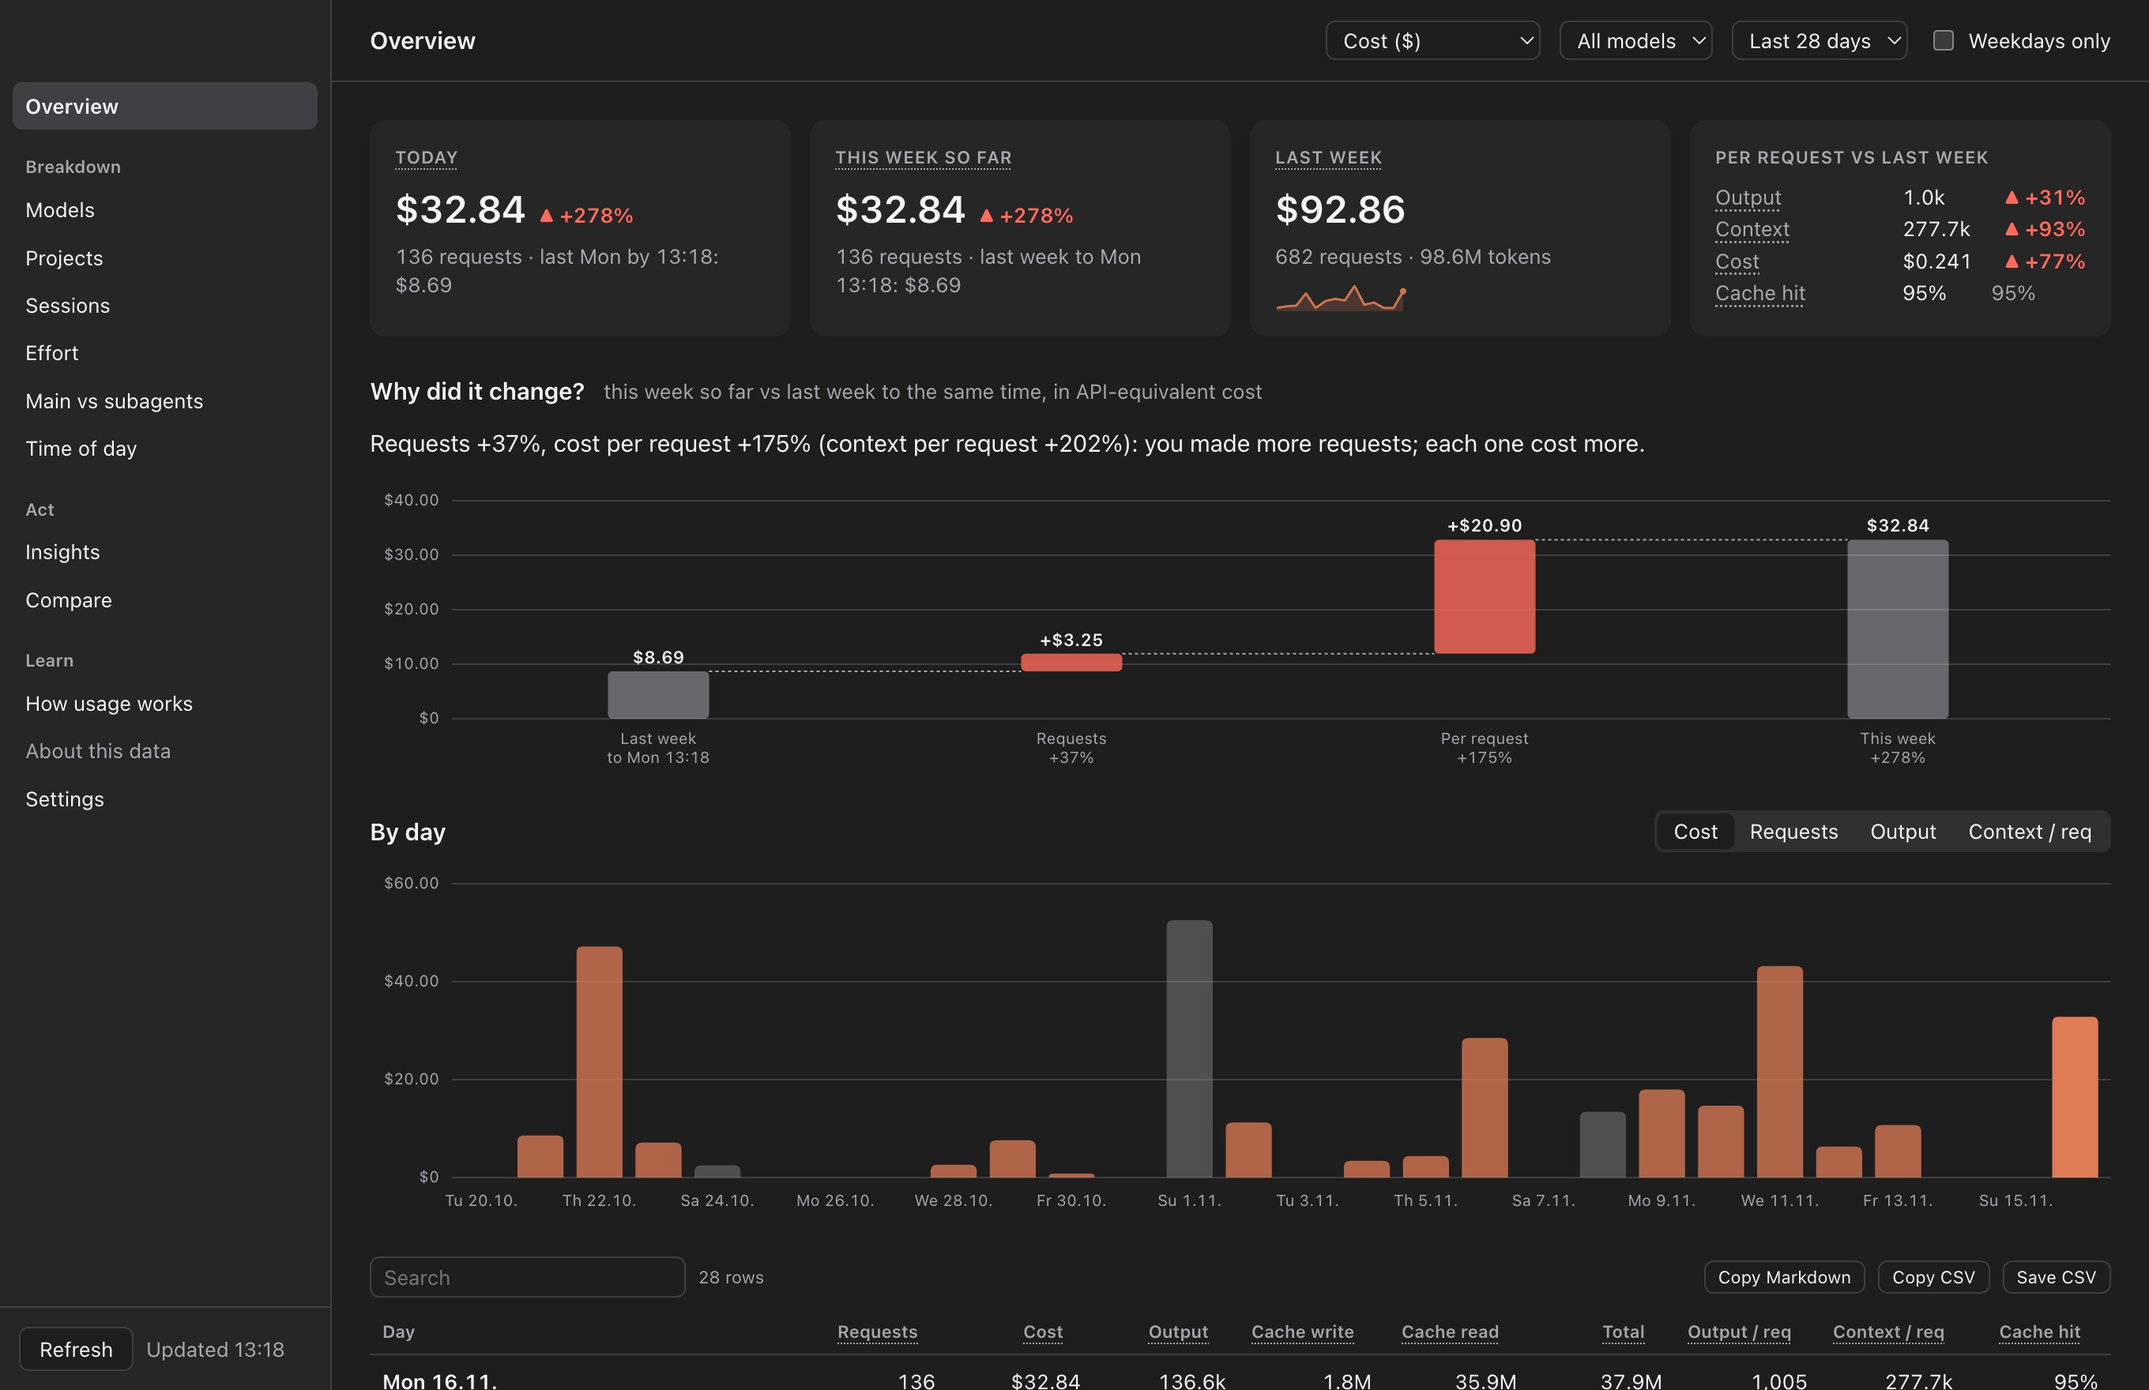
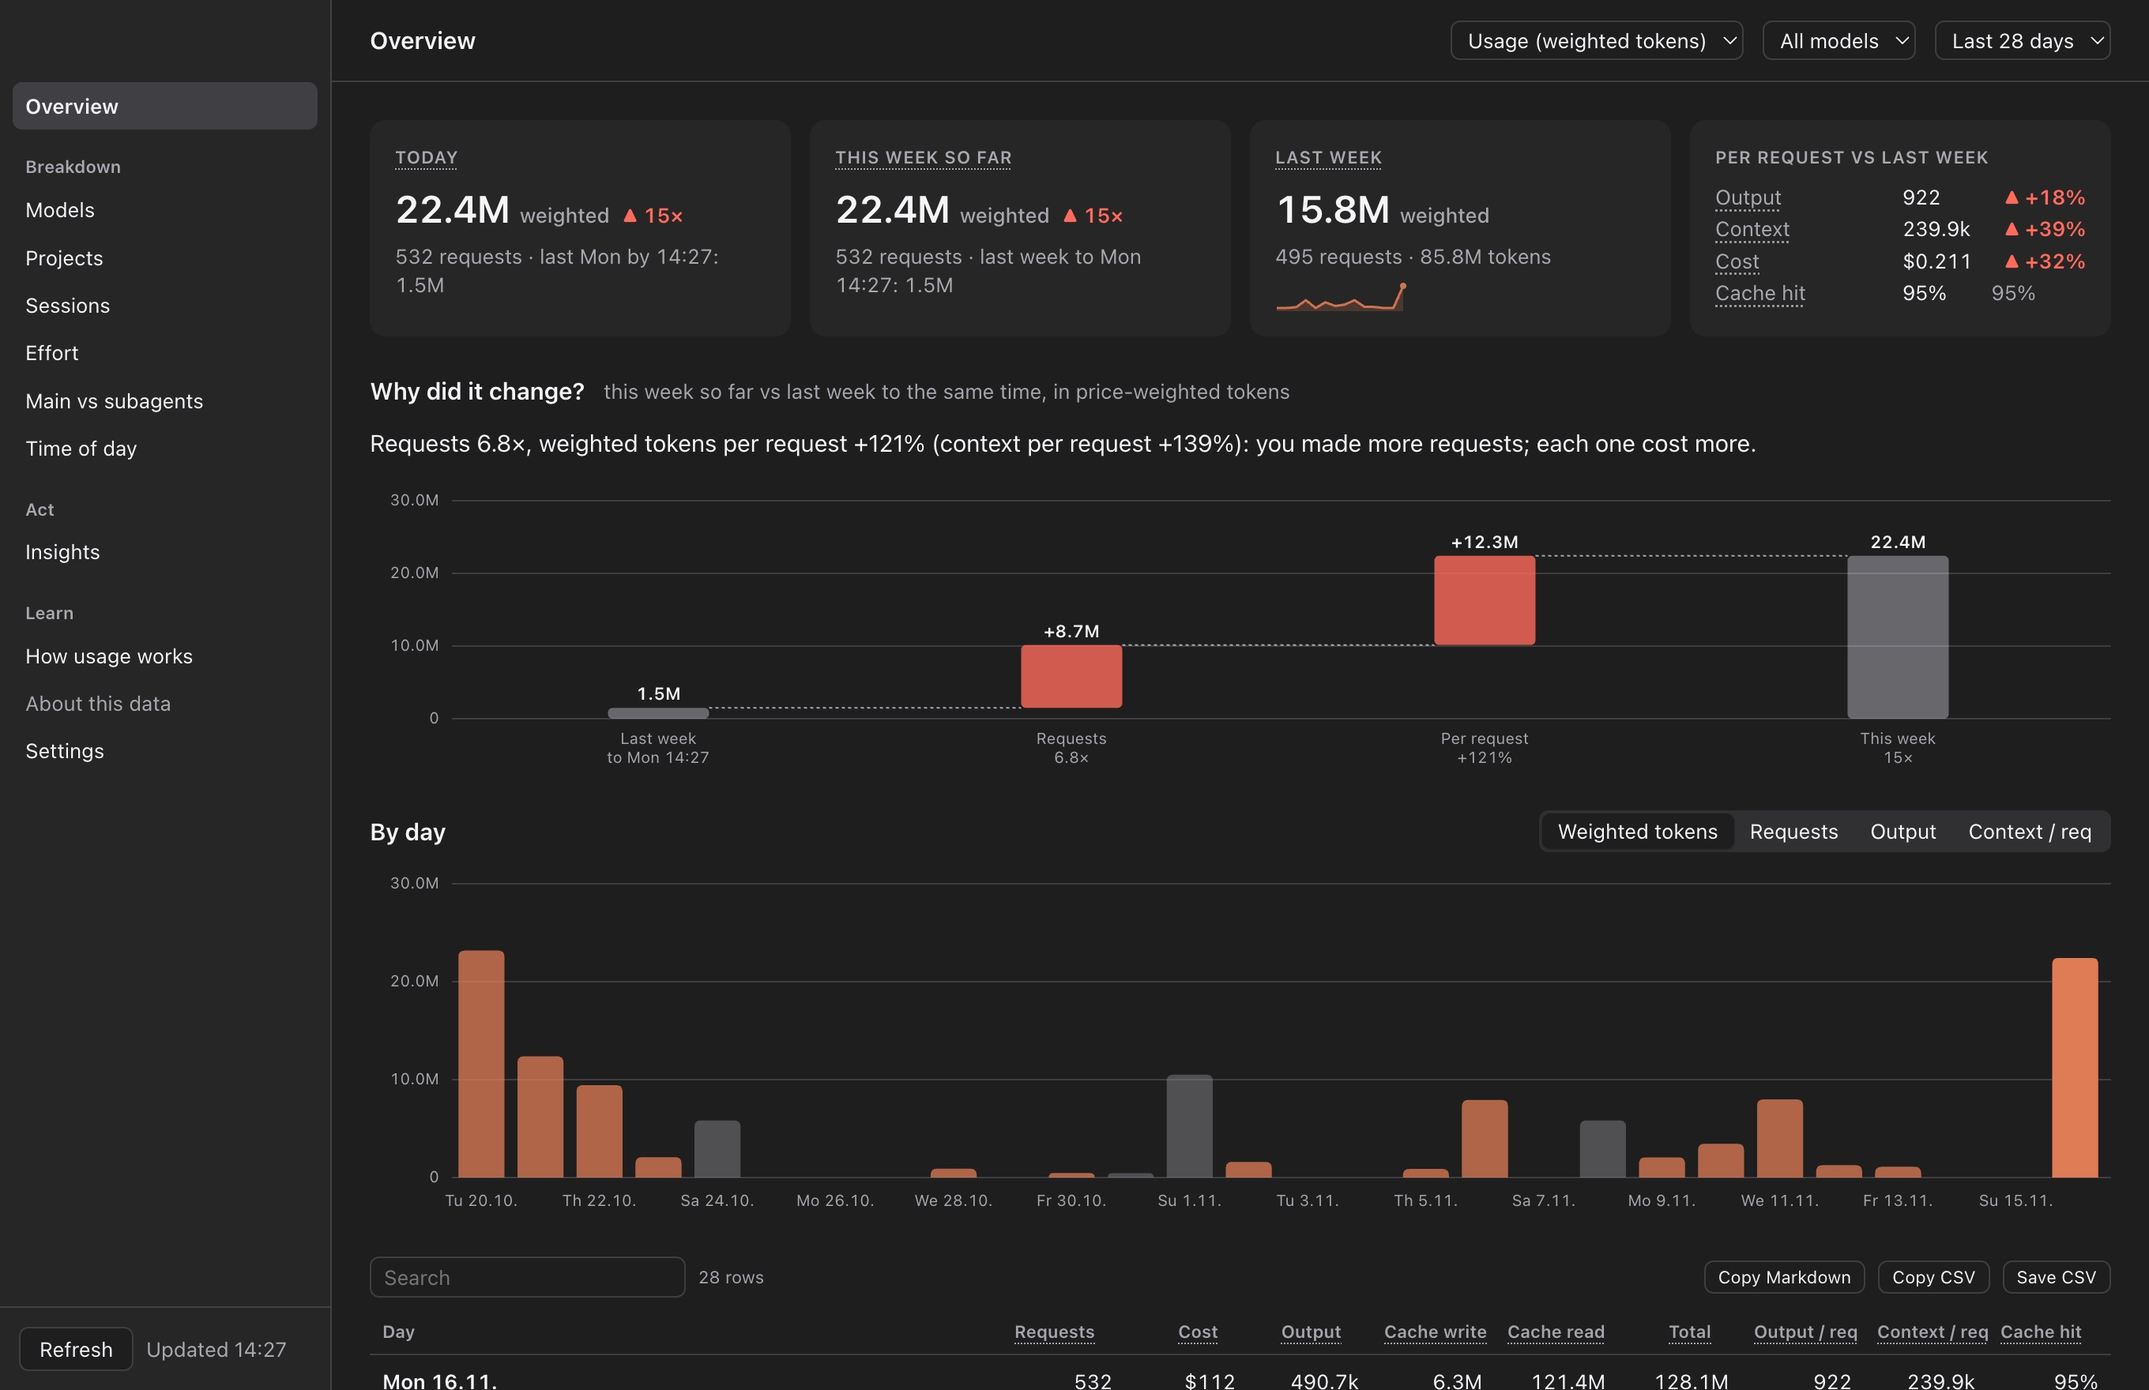
polish: remove Compare page and weekdays filter, unit labels on cards, readable session titles, multiples for big changes

diff --git a/ui/app.js b/ui/app.js
@@ -23,7 +23,6 @@ const VIEWS = {
   agent: "Main vs subagents",
   hour: "Time of day",
   insights: "Insights",
-  compare: "Compare",
   settings: "Settings",
   learn: "How usage works",
 };
@@ -39,6 +38,11 @@ const UNITS = {
   tokens: { name: "Tokens", long: "tokens", get: (t) => t.total, fmt: fmtTok },
 };
 const U = () => UNITS[state.unit] || UNITS.weighted;
+// Small unit label after a big number, so "20.5M" says what it counts.
+function unitHint() {
+  const t = { weighted: "weighted", tokens: "tokens" }[state.unit];
+  return t ? el("span", { class: "unit-hint", text: t }) : null;
+}
 
 function fmtUsd(x) {
   if (x == null || !isFinite(x)) return "—";
@@ -65,7 +69,7 @@ const TOKEN_SERIES = [
 ];
 
 const state = Object.assign(
-  { view: "overview", model: "", range: 14, weekdays: false, metric: "total", split: false, unit: "weighted", unitChosen: false },
+  { view: "overview", model: "", range: 14, metric: "total", split: false, unit: "weighted", unitChosen: false },
   loadPrefs(),
   { models: [], busy: false, refreshedAt: null, error: null, session: null, filesSeen: null, progress: null },
 );
@@ -115,7 +119,9 @@ function change(before, after) {
   return before > 0 ? ((after - before) / before) * 100 : null;
 }
 
+// Big increases read better as a multiple: "+1407%" says less than "15.1×".
 function fmtChange(c) {
+  if (c >= 200) return `${(c / 100 + 1).toFixed(c >= 900 ? 0 : 1)}×`;
   return `${c > 0 ? "+" : c < 0 ? "−" : ""}${Math.abs(c).toFixed(0)}%`;
 }
 
@@ -162,8 +168,8 @@ function loadPrefs() {
 
 function savePrefs() {
   try {
-    const { view, model, range, weekdays, metric, split, unit, unitChosen } = state;
-    localStorage.setItem("prefs", JSON.stringify({ view, model, range, weekdays, metric, split, unit, unitChosen }));
+    const { view, model, range, metric, split, unit, unitChosen } = state;
+    localStorage.setItem("prefs", JSON.stringify({ view, model, range, metric, split, unit, unitChosen }));
   } catch {
     /* storage unavailable: preferences just don't persist */
   }
@@ -173,14 +179,13 @@ function filter(extra = {}) {
   return {
     from: daysAgo(state.range - 1),
     to: today(),
-    weekdaysOnly: state.weekdays,
     model: state.model || null,
     ...extra,
   };
 }
 
 function rangeText() {
-  return `last ${state.range} days${state.weekdays ? ", weekdays" : ""}${state.model ? `, ${state.model}` : ""}`;
+  return `last ${state.range} days${state.model ? `, ${state.model}` : ""}`;
 }
 
 function emptyState(title, detail, ...actions) {
@@ -225,21 +230,21 @@ async function renderOverview(body) {
       "div",
       { class: "card" },
       el("h3", {}, term(u.name, "Today")),
-      el("div", { class: "big" }, u.fmt(u.get(o.todayTotals)), delta(u.get(o.sameDayLastWeek), u.get(o.todayTotals), `vs last ${wd} at the same time`)),
+      el("div", { class: "big" }, u.fmt(u.get(o.todayTotals)), unitHint(), delta(u.get(o.sameDayLastWeek), u.get(o.todayTotals), `vs last ${wd} at the same time`)),
       el("div", { class: "sub", text: `${fmtInt(o.todayTotals.requests)} requests · last ${wd} by ${o.asOf}: ${u.fmt(u.get(o.sameDayLastWeek))}` }),
     ),
     el(
       "div",
       { class: "card" },
       el("h3", {}, term(u.name, "This week so far")),
-      el("div", { class: "big" }, u.fmt(u.get(t)), delta(u.get(l), u.get(t), "vs last week to the same time")),
+      el("div", { class: "big" }, u.fmt(u.get(t)), unitHint(), delta(u.get(l), u.get(t), "vs last week to the same time")),
       el("div", { class: "sub", text: `${fmtInt(t.requests)} requests · last week to ${wd} ${o.asOf}: ${u.fmt(u.get(l))}` }),
     ),
     el(
       "div",
       { class: "card" },
       el("h3", {}, term(u.name, "Last week")),
-      el("div", { class: "big", text: u.fmt(u.get(o.lastWeek)) }),
+      el("div", { class: "big" }, u.fmt(u.get(o.lastWeek)), unitHint()),
       el("div", { class: "sub", text: `${fmtInt(o.lastWeek.requests)} requests · ${fmtTok(o.lastWeek.total)} tokens` }),
       el("div", { class: "card-spark", title: `${u.name} per day, last 14 days` }, spark()),
     ),
@@ -455,12 +460,10 @@ function noData() {
           render();
         })
       : null,
-    state.model || state.weekdays
-      ? linkButton("Clear filters", () => {
+    state.model
+      ? linkButton("Show all models", () => {
           state.model = "";
-          state.weekdays = false;
           $("#model").value = "";
-          $("#weekdays").checked = false;
           savePrefs();
           render();
         })
@@ -529,8 +532,7 @@ async function renderBreakdown(body, dim) {
     { key: "requests", label: "Requests", value: (g) => g.totals.requests, text: (g) => fmtInt(g.totals.requests) },
     { key: "cost", label: "Cost", value: (g) => g.totals.costUsd, text: (g) => fmtUsd(g.totals.costUsd) },
     { key: "output", label: "Output", value: (g) => g.totals.output, text: (g) => fmtTok(g.totals.output) },
-    { key: "cacheRead", label: "Cache read", value: (g) => g.totals.cacheRead, text: (g) => fmtTok(g.totals.cacheRead) },
-    { key: "total", label: "Total", term: "Total tokens", value: (g) => g.totals.total, text: (g) => fmtTok(g.totals.total) },
+    { key: "total", label: "Tokens", term: "Total tokens", value: (g) => g.totals.total, text: (g) => fmtTok(g.totals.total) },
     {
       key: "share",
       label: "Share",
@@ -669,7 +671,7 @@ async function render() {
   }
   host0.setAttribute("aria-busy", "true");
   $("#title").textContent = detail ? "Session" : VIEWS[state.view] || "Overview";
-  $(".filters").hidden = !!detail || ["settings", "compare", "learn"].includes(state.view);
+  $(".filters").hidden = !!detail || ["settings", "learn"].includes(state.view);
   $("#scope").hidden = !detail;
   document.querySelectorAll(".nav-item").forEach((a) => {
     const on = a.dataset.view === state.view;
@@ -682,7 +684,6 @@ async function render() {
     if (detail) await renderSession(body, state.session);
     else if (state.view === "learn") await renderLearn(body);
     else if (state.view === "insights") await renderInsights(body);
-    else if (state.view === "compare") await renderCompare(body);
     else if (state.view === "settings") await renderSettings(body);
     else if (state.filesSeen === 0) body.append(noTranscripts());
     else if (state.view === "overview") await renderOverview(body);
@@ -828,12 +829,6 @@ for (const [id, key, parse] of [
     render();
   });
 }
-$("#weekdays").checked = state.weekdays;
-$("#weekdays").addEventListener("change", (e) => {
-  state.weekdays = e.target.checked;
-  savePrefs();
-  render();
-});
 document.addEventListener("keydown", (e) => {
   // Escape on a session page goes back to the list.
   if (e.key === "Escape" && state.session && !e.defaultPrevented && !document.querySelector(".intro")) go("session");

diff --git a/ui/pages.js b/ui/pages.js
@@ -71,128 +71,6 @@ async function renderInsights(body) {
   }
 }
 
-// ---------- Compare ----------
-const compareState = { paths: null, result: null, family: "", name: "", toast: "", preview: null };
-
-async function runCompare(paths) {
-  const res = await invoke("compare", { family: compareState.family || null, paths: paths || null });
-  if (!res) return; // cancelled
-  const [p, cmp] = res;
-  compareState.paths = p;
-  compareState.result = cmp;
-  render();
-}
-
-async function renderCompare(body) {
-  // Share
-  const nameInput = el("input", {
-    type: "text",
-    placeholder: "Your name (optional)",
-    value: compareState.name,
-    "data-fk": "share-name",
-    oninput: (e) => (compareState.name = e.target.value),
-  });
-  const preview = compareState.preview ? el("details", { open: "" }, el("summary", { text: "What the file contains" }), el("pre", { class: "preview", text: compareState.preview })) : null;
-  body.append(
-    el(
-      "section",
-      { class: "panel" },
-      el("div", { class: "panel-head" }, el("h2", { text: "Share your numbers" })),
-      el("p", {
-        class: "note top",
-        text: "A summary file has your daily totals by model family and per-request averages for the last five weeks. It never contains paths, project names, session titles, branches, prompts or tool arguments.",
-      }),
-      el(
-        "div",
-        { class: "compare-bar" },
-        nameInput,
-        el("button", {
-          class: "btn",
-          text: "Preview",
-          onclick: async () => {
-            compareState.preview = await invoke("summary_preview", { name: compareState.name || null });
-            render();
-          },
-        }),
-        el("button", {
-          class: "btn",
-          text: "Export summary…",
-          onclick: async () => {
-            const p = await invoke("export_summary", { name: compareState.name || null });
-            compareState.toast = p ? `Saved to ${p}` : "";
-            render();
-          },
-        }),
-      ),
-      compareState.toast ? el("div", { class: "toast", role: "status", text: compareState.toast }) : null,
-      preview,
-    ),
-  );
-
-  // Compare
-  const fam = el(
-    "select",
-    {
-      "aria-label": "Model family",
-      onchange: (e) => {
-        compareState.family = e.target.value;
-        if (compareState.paths) runCompare(compareState.paths);
-      },
-    },
-    [
-      ["", "All models"],
-      ["opus", "Opus"],
-      ["sonnet", "Sonnet"],
-      ["haiku", "Haiku"],
-      ["fable", "Fable"],
-    ].map(([v, t]) => el("option", { value: v, text: t, selected: v === compareState.family ? "" : null })),
-  );
-  const section = el(
-    "section",
-    { class: "panel" },
-    el("div", { class: "panel-head" }, el("h2", { text: "Compare with others" })),
-    el("p", { class: "note top", text: "Ask colleagues to export their summary from this page, then open the files here. You are included automatically." }),
-    el("div", { class: "compare-bar" }, el("button", { class: "btn", text: compareState.result ? "Choose other files…" : "Choose summary files…", onclick: () => runCompare(null) }), fam),
-  );
-  body.append(section);
-  const cmp = compareState.result;
-  if (!cmp) return;
-  const weeks = cmp.weeks;
-  const pct = (c) => (c == null ? "" : `${c > 0 ? "+" : c < 0 ? "−" : ""}${Math.abs(c).toFixed(0)}%`);
-  const metric = (label, get, fmt, ch) =>
-    DataTable({
-      id: `compare:${label}`,
-      name: `compare-${label.toLowerCase().replace(/\W+/g, "-")}`,
-      label,
-      rows: cmp.people,
-      rowKey: (p) => p.label,
-      tools: false,
-      columns: [
-        { key: "who", label: "Person", left: true, value: (p) => p.label },
-        ...weeks.map((w, i) => ({
-          key: `w${i}`,
-          label: `Week of ${shortDay(w.start)}`,
-          value: (p) => get(p.cells[i]),
-          text: (p) => fmt(get(p.cells[i])),
-          render: (p) => {
-            const c = p.cells[i];
-            if (!c || !c.daysCovered) return el("span", { class: "muted", text: "—" });
-            return el("span", {}, fmt(get(c)) + (c.partial ? "*" : ""), el("span", { class: "cell-change", text: pct(ch(c)) }));
-          },
-        })),
-      ],
-    });
-  section.append(
-    el("h3", { class: "sub-head", text: "Total tokens per week" }),
-    metric("Total tokens per week", (c) => c?.totals.total, fmtTok, (c) => c.change.total),
-    el("h3", { class: "sub-head", text: "Context per request" }),
-    metric("Context per request", (c) => c?.totals.contextPerRequest, fmtTok, (c) => c.change.contextPerRequest),
-    el("h3", { class: "sub-head", text: "Output per request" }),
-    metric("Output per request", (c) => c?.totals.outputPerRequest, fmtInt, (c) => c.change.outputPerRequest),
-    el("p", { class: "note", text: `Files: ${compareState.paths.join(", ")}. * week only partly covered; its change is against the same weekdays a week earlier.` }),
-  );
-}
-
 // ---------- Settings ----------
 // Menu bar title modes: value (as in settings.rs MenuBar), label, hint.
 const MENU_BAR_MODES = [

diff --git a/ui/index.html b/ui/index.html
@@ -20,7 +20,6 @@
         <button class="nav-item" data-view="hour">Time of day</button>
         <div class="nav-section" role="presentation">Act</div>
         <button class="nav-item" data-view="insights">Insights</button>
-        <button class="nav-item" data-view="compare">Compare</button>
         <div class="nav-section" role="presentation">Learn</div>
         <button class="nav-item" data-view="learn">How usage works</button>
         <button class="nav-item about" id="about" type="button">About this data</button>
@@ -51,7 +50,6 @@
             <option value="28">Last 28 days</option>
             <option value="90">Last 90 days</option>
           </select>
-          <label class="toggle"><input type="checkbox" id="weekdays" /> Weekdays only</label>
         </div>
       </header>
       <div id="progress" class="progress" hidden role="status"><div class="bar"></div><span></span></div>

diff --git a/ui/skeleton.js b/ui/skeleton.js
@@ -75,7 +75,6 @@
     },
     hour: () => wrap(line("50%"), panel("12%", bars(24, 200)), rows(8)),
     learn: () => wrap(panel("30%", [line("90%"), line("84%"), line("70%"), block(160)]), panel("26%", [line("88%"), line("64%")])),
-    compare: () => wrap(panel("24%", [line("70%"), block(36)]), panel("20%", rows(4, [20, 14, 14, 14, 14, 14]))),
     settings: () => wrap(panel("22%", rows(5, [60, 20])), panel("18%", rows(3, [60, 20]))),
   };
 

diff --git a/ui/styles.css b/ui/styles.css
@@ -1063,7 +1063,7 @@ table.breakdown th:not(:first-child) {
 }
 
 table.breakdown col:not(:first-child) {
-  width: 92px;
+  width: 78px;
 }
 
 .cell-label {
@@ -1542,5 +1542,12 @@ pre.preview {
   margin: var(--s4) 0 var(--s2);
   font-size: var(--fs-sm);
   font-weight: 600;
+  color: var(--text-2);
+}
+
+.unit-hint {
+  margin-left: 6px;
+  font-size: var(--fs-sm);
+  font-weight: 500;
   color: var(--text-2);
 }

diff --git a/README.md b/README.md
@@ -27,7 +27,6 @@ All screenshots in this README use made-up demo data.
 | **Breakdowns** | Models, projects (worktrees fold into their repo), sessions, effort level, main thread against subagents, hour of day and a 13-week calendar.   |
 | **Session**    | What filled the context, item by item; the context size over the session with compactions and cache rebuilds marked; each prompt and what it set off; the largest single items; what is sent with every request, with MCP servers that were loaded but never called. |
 | **Insights**   | Ranked findings, each with the tokens it accounts for and one thing to change: long sessions, heavy tool definitions, large `CLAUDE.md` files, oversized tool results, idle cache rebuilds. |
-| **Compare**    | Export a summary with no paths, titles, prompts or tool arguments, and line colleagues' files up week by week.                                  |
 | **Menu bar**   | Today compared with your own usual day ("1.4× usual"), or the active session's context, weighted or raw tokens, or API cost. The menu spells out today and this week against usual and the active session's context and compactions. Optional notifications for a large context, a cache rewrite after a pause, or an unusually heavy day. |
 
 ![Session detail: cost, requests, context per request, warnings and what filled the context](docs/screenshots/session-detail.jpg)
@@ -114,8 +113,7 @@ index after their transcript is deleted, so history survives a cleanup with
 
 - Plan-limit percentages: they are not stored locally, and the app never
   approximates them.
-- claude.ai chats, other computers, and other people (unless they share a
-  summary file with you).
+- claude.ai chats, other computers, and other people.
 
 ## How it counts
 

diff --git a/CHANGELOG.md b/CHANGELOG.md
@@ -14,6 +14,10 @@ All notable changes to this project are documented here. The format follows
   active session's context, weighted tokens, raw tokens, API cost or icon
   only. The menu explains today and this week against usual, the session's
   context and compactions, and that plan limits are not in local data.
+- The Compare page is gone for now; `usage export` and `usage compare` still
+  work from the command line.
+- Removed the "Weekdays only" filter.
+- Big numbers on the Overview cards say what unit they are in.
 - The app's unit switch defaults to weighted tokens, labelled "Usage"; cost
   stays one click away.
 
